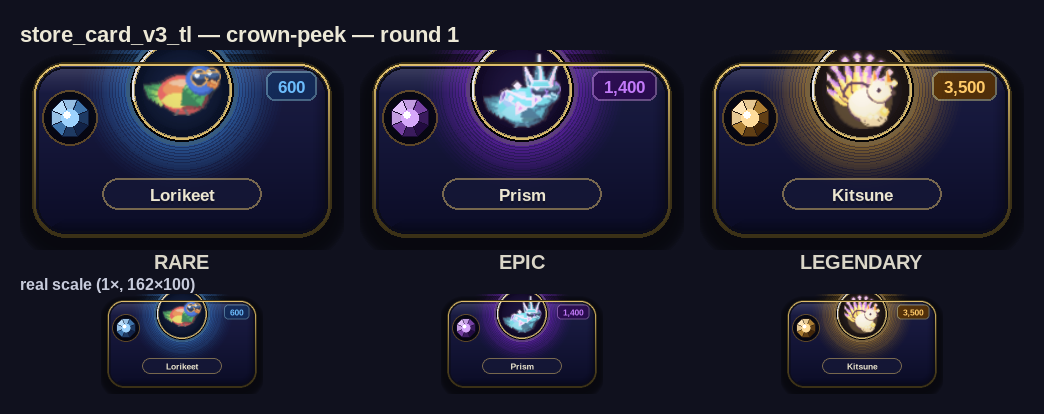
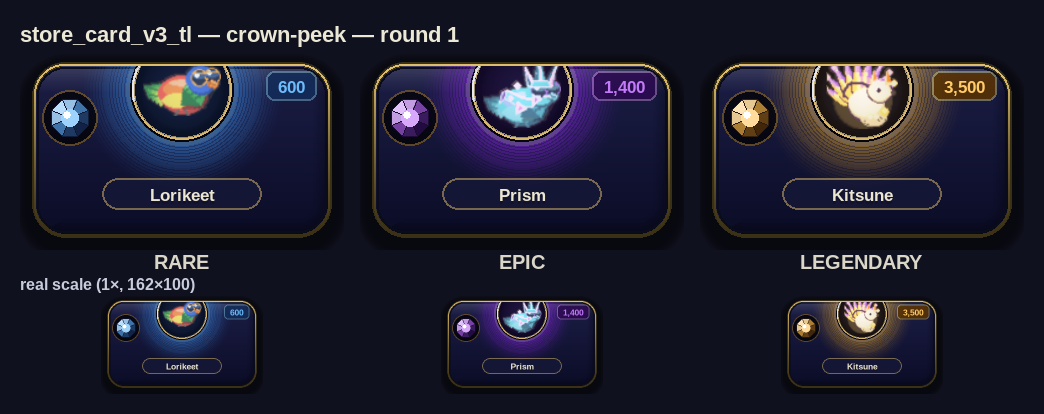
store_card_v3_tl crown-peek r1
Claude-Session: https://claude.ai/code/session_011726ot8uBSmurQVaEkGY6K

diff --git a/tools/_store_card_v3tl_crown_peek_r1.py b/tools/_store_card_v3tl_crown_peek_r1.py
@@ -124,18 +124,26 @@ def render_crown_peek(sid, pal, price):
     pygame.draw.rect(big, (10, 10, 24, 180), tray.inflate(m(2), m(2)),
                      width=max(1, m(1)), border_radius=trad + m(1))
 
-    # 6. tier read FIRST: a gutter-only feathered halo flooding the side gutters
-    #    (drawn before the disc so the hero paints over its inner falloff).
-    _gutter_aura(big, cx, cy, m(R), m(R + 26), pal["glow"], peak=88, layers=18)
-
-    # ── crowned hero disc (crests over the tray, clips at card surface edge) ──
-    cabochon(big, cx, cy, m(R), CABO_LO, CABO_HI, ring=pal["gem"], ring_a=70)
+    # ── crowned hero disc + its gutter halo, on a MASKED layer ──
+    # The disc rides so high its dome + halo overrun both the tray AND the outer
+    # rect top. We draw the whole stack onto its own transparent layer, then clip
+    # that layer to the OUTER rounded rect via BLEND_RGBA_MIN — so the crest
+    # crests over the inner tray yet is cut cleanly at the gold bevel and never
+    # leaks into the drop-shadow margin above the card. Masking a SEPARATE layer
+    # (not `big`) keeps the min-blend off the body, which is already composited.
+    layer = pygame.Surface((CARD_W * SS, CARD_H * SS), pygame.SRCALPHA)
+    _gutter_aura(layer, cx, cy, m(R), m(R + 26), pal["glow"], peak=88, layers=18)
+    cabochon(layer, cx, cy, m(R), CABO_LO, CABO_HI, ring=pal["gem"], ring_a=70)
     if sid is not None:
-        blit_thumb(big, sid, cx, cy, m(R) * 1.5)
-    _disc_tint(big, cx, cy, m(R), pal["glow"], pal["deep"], peak=55, base=22)
-    cabochon_glass(big, cx, cy, m(R), tint=pal["gem"])
+        blit_thumb(layer, sid, cx, cy, m(R) * 1.5)
+    _disc_tint(layer, cx, cy, m(R), pal["glow"], pal["deep"], peak=55, base=22)
+    cabochon_glass(layer, cx, cy, m(R), tint=pal["gem"])
     # tier-gem bezel ring at R+2.
-    pygame.draw.circle(big, (*pal["gem"], 110), (cx, cy), m(R) + m(2), width=m(2))
+    pygame.draw.circle(layer, (*pal["gem"], 110), (cx, cy), m(R) + m(2), width=m(2))
+    clip_mask = pygame.Surface((CARD_W * SS, CARD_H * SS), pygame.SRCALPHA)
+    pygame.draw.rect(clip_mask, (255, 255, 255, 255), rect, border_radius=rad)
+    layer.blit(clip_mask, (0, 0), special_flags=pygame.BLEND_RGBA_MIN)
+    big.blit(layer, (0, 0))
 
     # 7. NAMEPLATE PLAQUE — a frosted gold-rimmed pill in the lower body, its
     #    name centred. Sits below the disc so the crown + plaque bracket the card.
